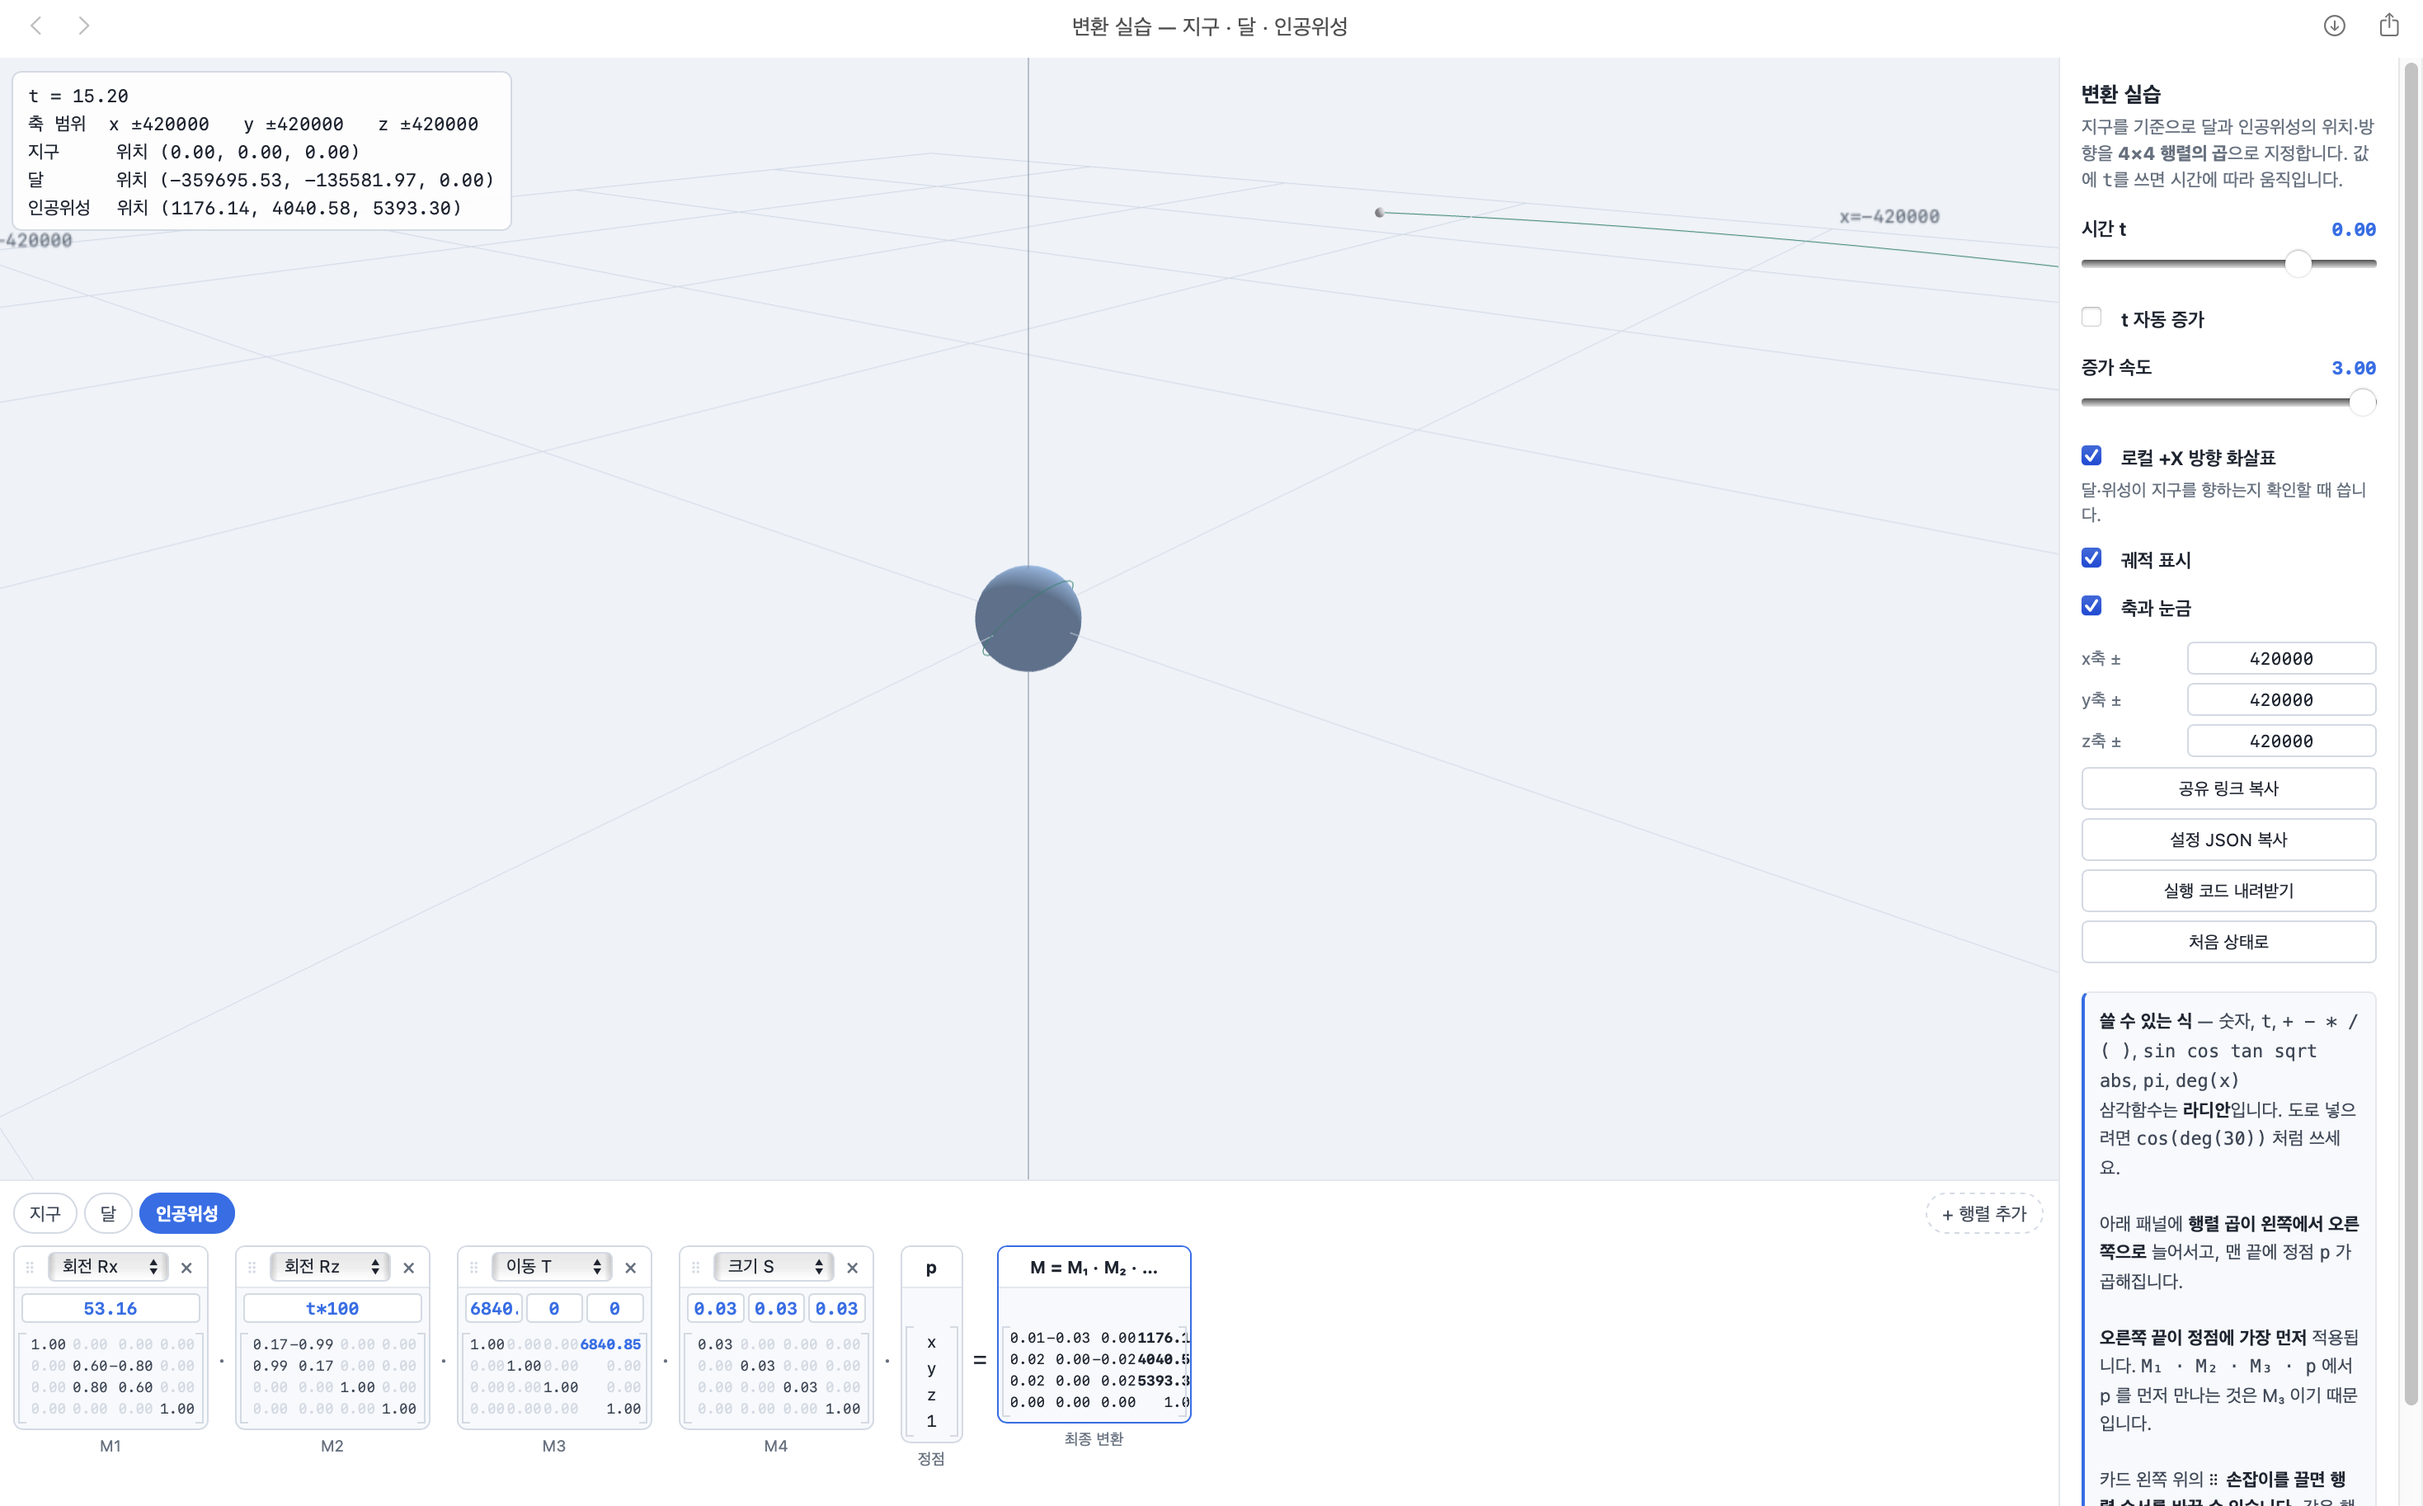
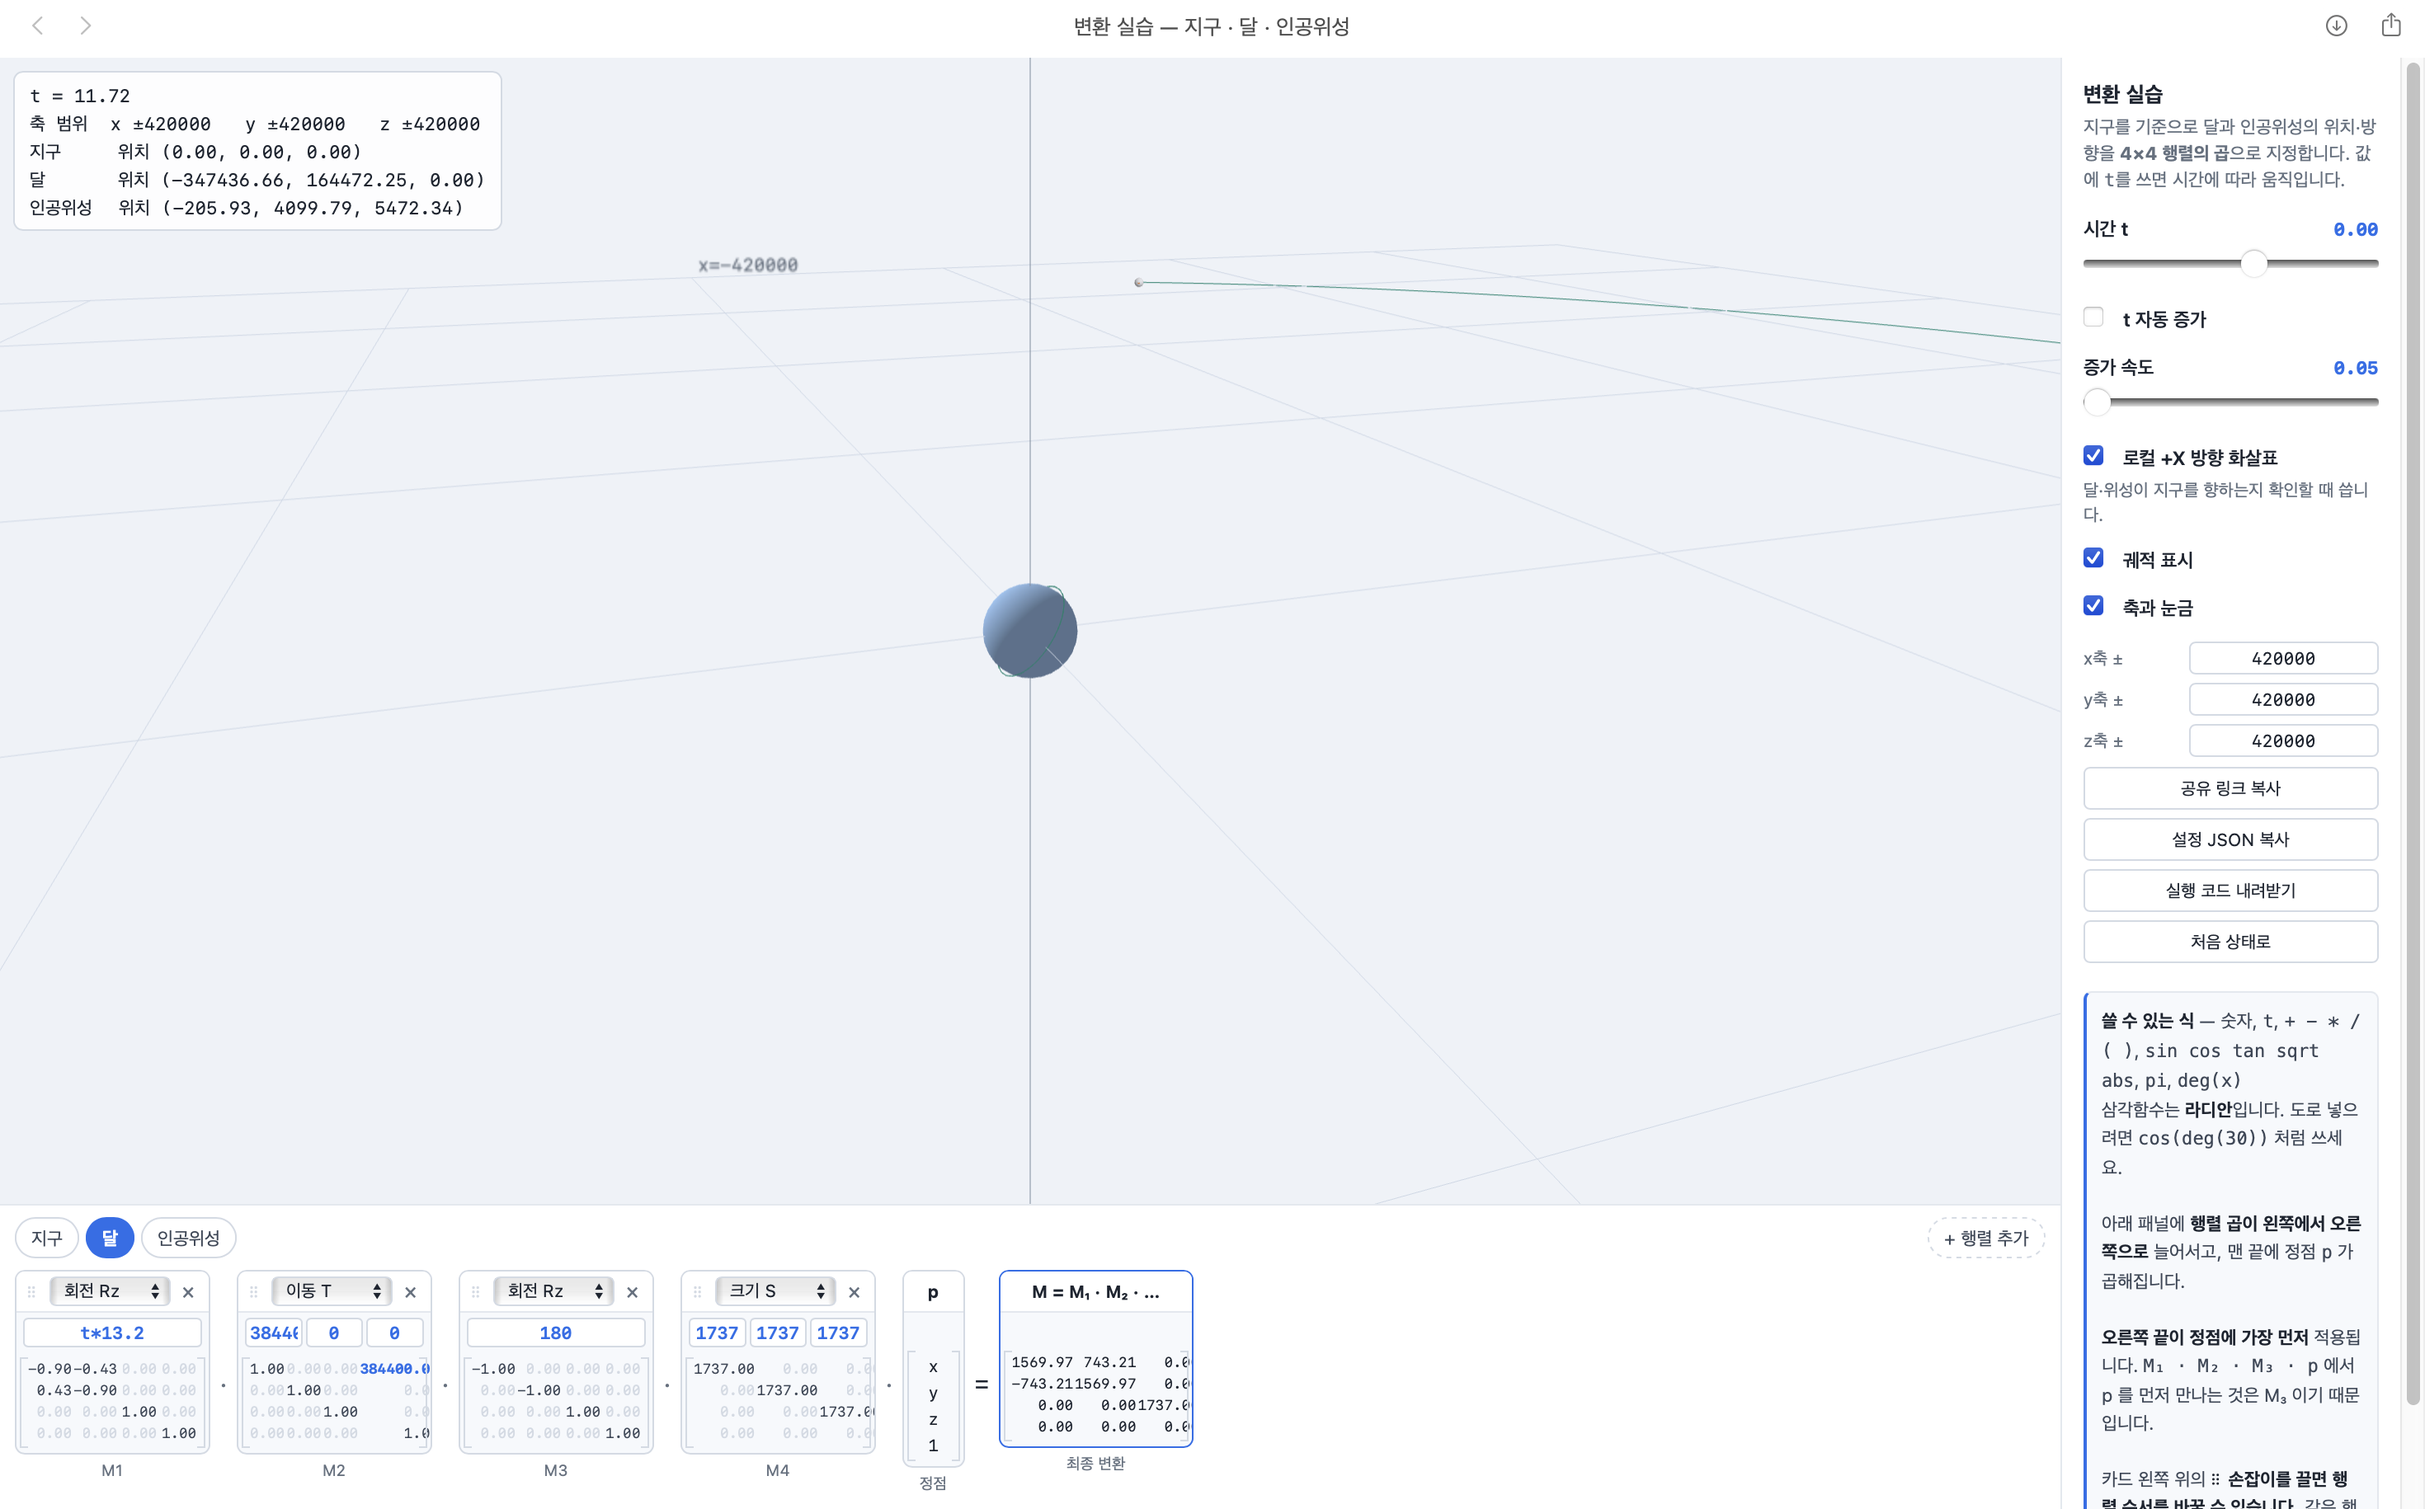
2주차과제

diff --git a/week2/task1.html b/week2/task1.html
@@ -66,6 +66,7 @@ function moonMatrix(t) {
   let M = M4.identity(M4.create());
   M = M4.rotateZ(M, M, deg(t * 13.2));   // 회전 Rz(t*13.2도)
   M = M4.translate(M, M, [384400, 0, 0]);   // 이동 T(384400, 0, 0)
+  M = M4.rotateZ(M, M, deg(180));   // 회전 Rz(180도)
   M = M4.scale(M, M, [1737, 1737, 1737]);   // 크기 S(1737, 1737, 1737)
   return M;
 }
